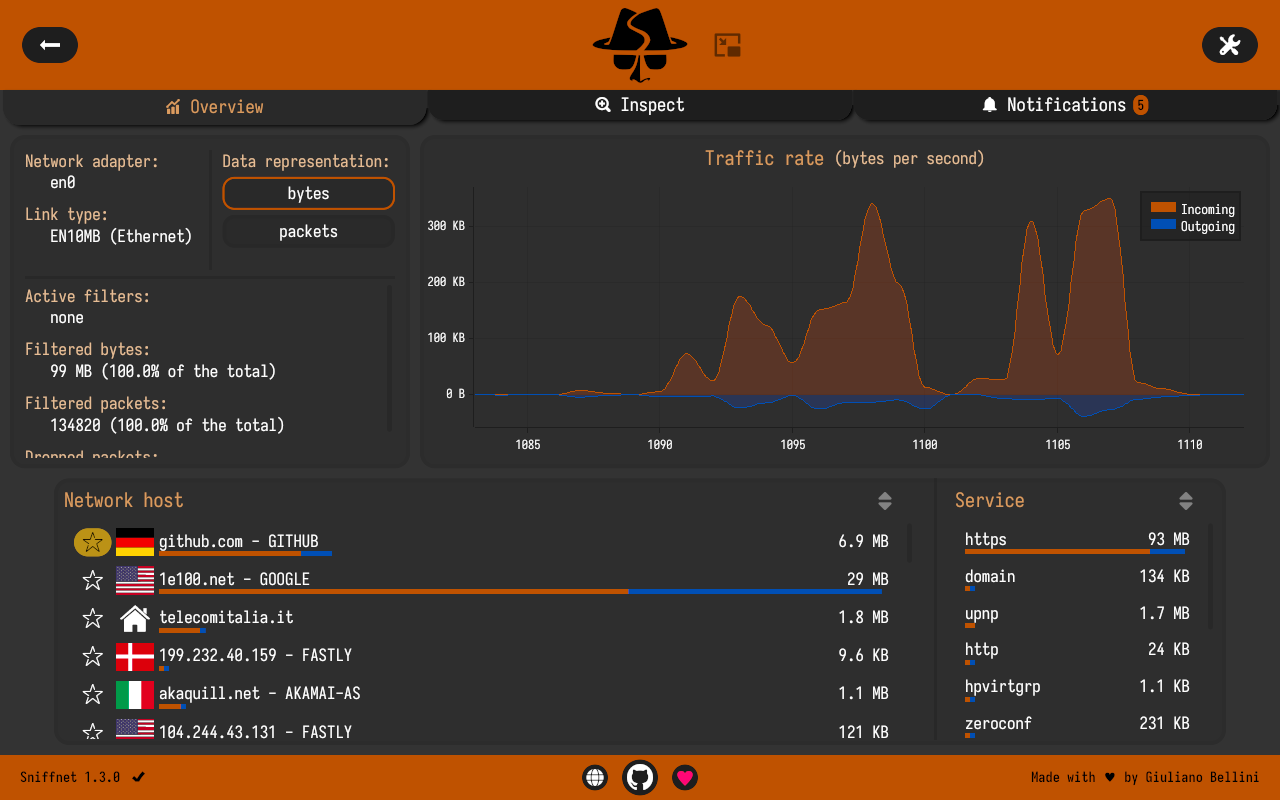
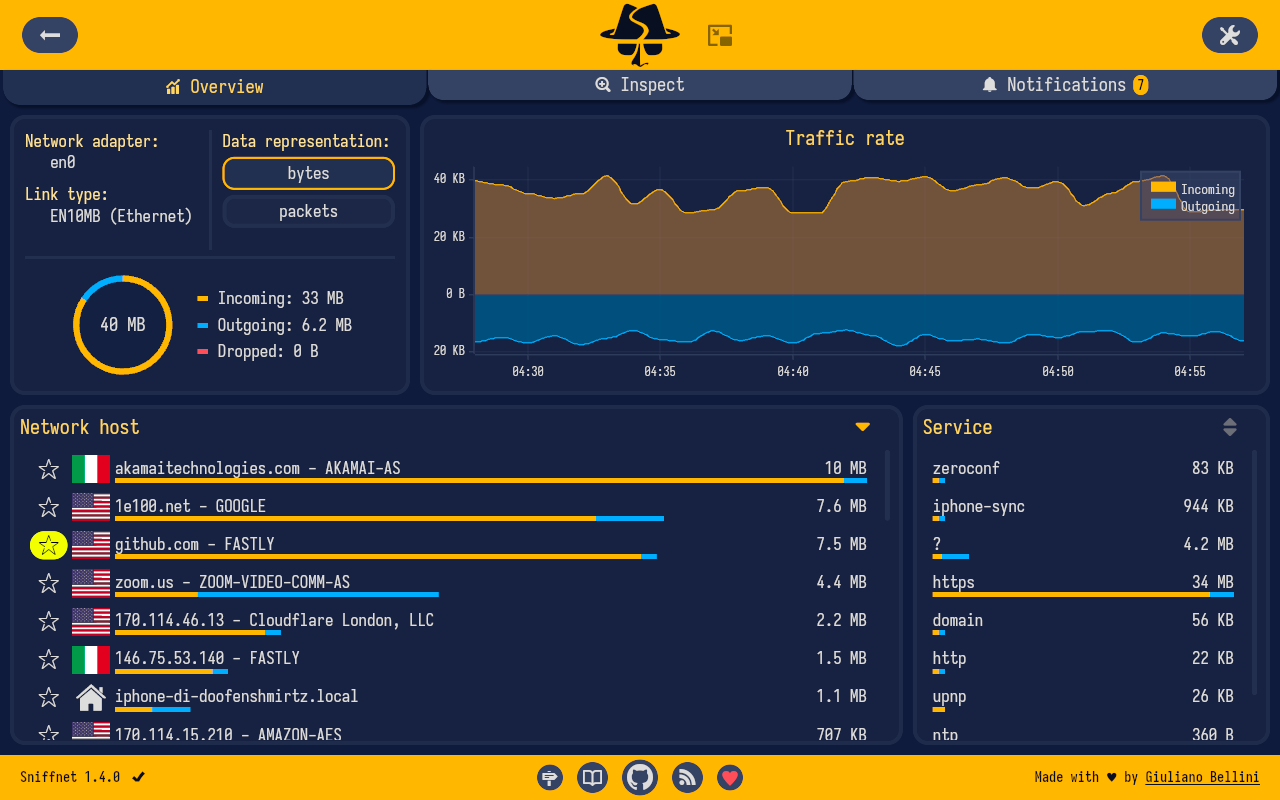
preparing for v1.4.0

diff --git a/src/chart/manage_chart_data.rs b/src/chart/manage_chart_data.rs
@@ -155,6 +155,58 @@ fn reduce_all_time_data(all_time: &mut Vec<(f32, f32)>) {
     }
 }
 
+// impl TrafficChart {
+// use crate::gui::styles::types::style_type::StyleType;
+// use crate::translations::types::language::Language;
+// use std::io::Read;
+//     pub fn sample_for_screenshot() -> Self {
+//         let get_rand = |delta: f32| {
+//             let mut f = std::fs::File::open("/dev/urandom").unwrap();
+//             let mut buf = [0u8; 1];
+//             f.read_exact(&mut buf).unwrap();
+//             let x = buf[0];
+//             x as f32 / 255.0 * 2.0 * delta - delta
+//         };
+//
+//         let mut chart = TrafficChart::new(StyleType::default(), Language::default());
+//
+//         chart.ticks = 5 * 60 - 2;
+//         let x_range = chart.ticks - 30..chart.ticks;
+//
+//         let in_base = 35_000.0;
+//         let in_delta = 7_000.0;
+//         let out_base = -15_000.0;
+//         let out_delta = 3_000.0;
+//
+//         chart.in_bytes.spline = Spline::from_vec(
+//             x_range
+//                 .clone()
+//                 .map(|x| {
+//                     Key::new(
+//                         x as f32,
+//                         in_base + get_rand(in_delta),
+//                         Interpolation::Cosine,
+//                     )
+//                 })
+//                 .collect(),
+//         );
+//         chart.out_bytes.spline = Spline::from_vec(
+//             x_range
+//                 .map(|x| {
+//                     Key::new(
+//                         x as f32,
+//                         out_base + get_rand(out_delta),
+//                         Interpolation::Cosine,
+//                     )
+//                 })
+//                 .collect(),
+//         );
+//         chart.min_bytes = get_min(&chart.out_bytes);
+//         chart.max_bytes = get_max(&chart.in_bytes);
+//         chart
+//     }
+// }
+
 #[cfg(test)]
 mod tests {
     use splines::{Interpolation, Key, Spline};

diff --git a/README.md b/README.md
@@ -12,7 +12,7 @@ Application to comfortably monitor your Internet traffic.<br>
 Cross-platform. Intuitive. Reliable.
 
 Translated in:<br>
-🇨🇳 🇩🇪 🇫🇷 🇷🇺 🇵🇹 🇪🇦 🇮🇹 🇵🇱 [+&nbsp;12&nbsp;more&nbsp;languages](https://github.com/GyulyVGC/sniffnet/issues/60)
+🇨🇳 🇩🇪 🇫🇷 🇷🇺 🇵🇹 🇪🇦 🇮🇹 🇵🇱 [+&nbsp;14&nbsp;more&nbsp;languages](https://github.com/GyulyVGC/sniffnet/issues/60)
 </div>
 
 <p>
@@ -25,7 +25,7 @@ Translated in:<br>
 <img alt="" title="Overview page" src="https://raw.githubusercontent.com/GyulyVGC/sniffnet/main/resources/repository/pages/overview.png" width="95%"/>
 <img alt="" title="Inspect page" src="https://raw.githubusercontent.com/GyulyVGC/sniffnet/main/resources/repository/pages/inspect.png" width="47%"/>
 <img alt="" title="Notifications page" src="https://raw.githubusercontent.com/GyulyVGC/sniffnet/main/resources/repository/pages/notifications.png" width="47%"/>
-<img alt="" title="Custom theme" src="https://raw.githubusercontent.com/GyulyVGC/sniffnet/main/resources/repository/pages/catppuccin.png" width="47%"/>
+<img alt="" title="Custom theme" src="https://raw.githubusercontent.com/GyulyVGC/sniffnet/main/resources/repository/pages/deep_cosmos.png" width="47%"/>
 <img alt="" title="Thumbnail mode" src="https://raw.githubusercontent.com/GyulyVGC/sniffnet/main/resources/repository/pages/thumbnail.png" width="47%"/>
 </div>
 
@@ -77,14 +77,14 @@ Not what you're looking for? Check out [alternative installation methods](https:
 - 📖 view overall **statistics** about your Internet traffic
 - 📈 view **real-time charts** about traffic intensity
 - 📌 keep an eye on your network even when the application is **minimized**
-- 📁 **export** comprehensive capture reports as **PCAP files**
+- 📁 **import** and **export** comprehensive capture reports as **PCAP files**
 - 🔎 identify **6000+ upper layer services**, protocols, trojans, and worms
 - 🌐 find out **domain name** and **ASN** of the hosts you are exchanging traffic with
 - 🏠 identify connections in your **local network**
-- 🌍 get information about the country of remote hosts (**IP geolocation**)
+- 🌍 discover the **geographical location** of remote hosts
 - ⭐ save your **favorite** network hosts
 - 🕵♂ search and **inspect** each of your network connections in real time
-- 🔉 set **custom notifications** to inform you when defined network events occur
+- 🔉 set custom **notifications** to inform you when defined network events occur
 - 🎨 choose the **style** that fits you the most, including custom themes support
 - ...and more!
 

diff --git a/CHANGELOG.md b/CHANGELOG.md
@@ -16,6 +16,7 @@ All Sniffnet releases with the relative changes are documented in this file.
   - Portuguese ([#690](https://github.com/GyulyVGC/sniffnet/pull/690))
   - Ukrainian ([#692](https://github.com/GyulyVGC/sniffnet/pull/692))
   - Spanish ([#805](https://github.com/GyulyVGC/sniffnet/pull/805))
+- Do not apply new notification thresholds while user is typing them ([#777](https://github.com/GyulyVGC/sniffnet/pull/777) — fixes [#658](https://github.com/GyulyVGC/sniffnet/issues/658))
 - Show more information when domain name is short ([#720](https://github.com/GyulyVGC/sniffnet/pull/720) — fixes [#696](https://github.com/GyulyVGC/sniffnet/issues/696))
 - Added new themes _A11y (Night)_ and _A11y (Day)_ based on palettes optimized for Accessibility ([#785](https://github.com/GyulyVGC/sniffnet/pull/785) — fixes [#786](https://github.com/GyulyVGC/sniffnet/issues/786))
 - Avoid directory traversal when selecting file name for PCAP exports ([#776](https://github.com/GyulyVGC/sniffnet/pull/776) — fixes [#767](https://github.com/GyulyVGC/sniffnet/issues/767))
@@ -23,7 +24,6 @@ All Sniffnet releases with the relative changes are documented in this file.
 - Update footer buttons and links ([#755](https://github.com/GyulyVGC/sniffnet/pull/755) — fixes [#553](https://github.com/GyulyVGC/sniffnet/issues/553))
 - Handle errors to reduce the number of possible crash occurrences ([#784](https://github.com/GyulyVGC/sniffnet/pull/784))
 - Use asynchronous channels to update app state from backend ([#806](https://github.com/GyulyVGC/sniffnet/pull/806))
-- Do not apply new notification thresholds while user is typing them ([#777](https://github.com/GyulyVGC/sniffnet/pull/777) — fixes [#658](https://github.com/GyulyVGC/sniffnet/issues/658))
 - Fix _crates.io_ package for Windows ([#718](https://github.com/GyulyVGC/sniffnet/pull/718) — fixes [#681](https://github.com/GyulyVGC/sniffnet/issues/681))
 - Fix crash when inserting characters longer than one byte in the text input for byte threshold notification setting ([#747](https://github.com/GyulyVGC/sniffnet/pull/747) — fixes [#744](https://github.com/GyulyVGC/sniffnet/issues/744))
 - Remove pre-uninstall script on Linux (fixes [#644](https://github.com/GyulyVGC/sniffnet/issues/644))
